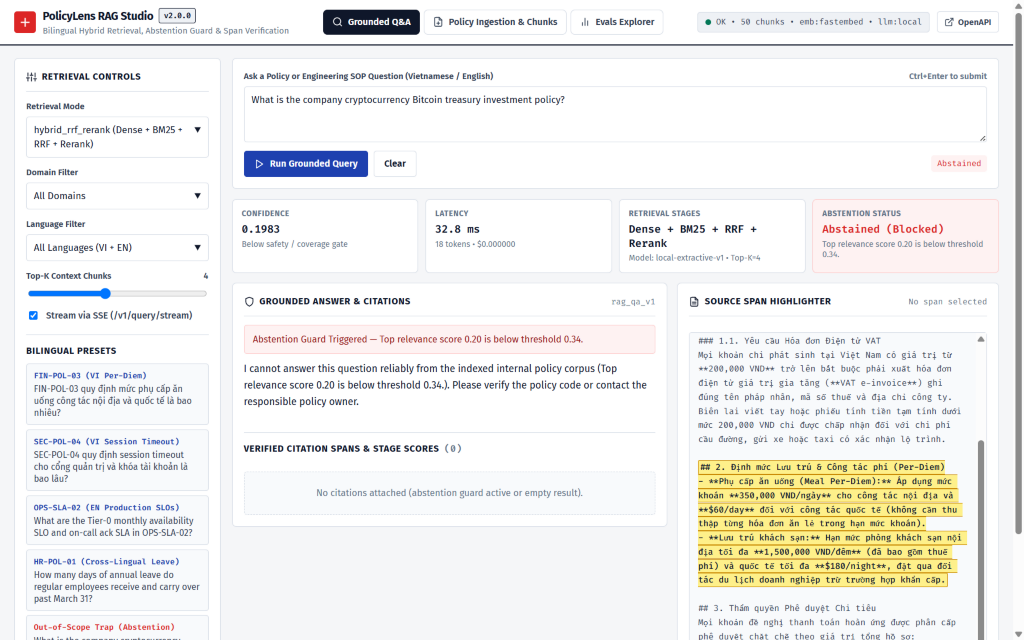
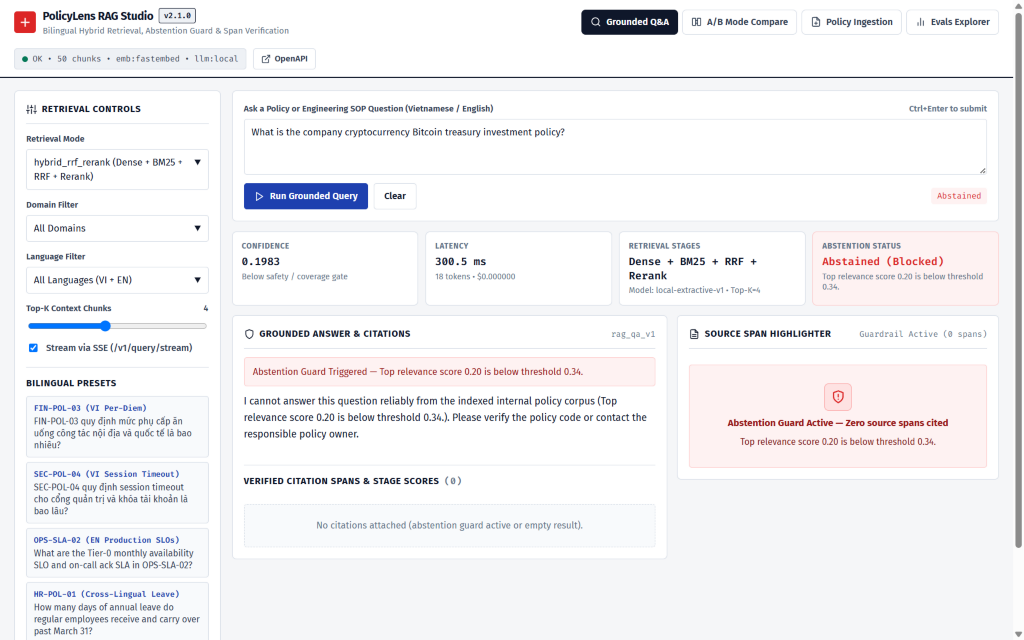
docs(ui): recapture v2.1 Studio grounded, abstention-reset, and A/B compare screenshots (#20)

diff --git a/README.md b/README.md
@@ -120,13 +120,17 @@ curl -X POST http://localhost:8301/v1/query \
 - **VS Code / IntelliJ HTTP Client:** [`docs/api-requests.http`](docs/api-requests.http)
 - **Postman Collection v2.1:** [`docs/postman_collection.json`](docs/postman_collection.json) (covers `/health`, `/v1/documents`, `/v1/documents/upload`, `/v1/documents/{doc_id}/chunks`, `/v1/evals/latest`, `/v1/query/compare`, bilingual queries, abstention traps, prompt-injection `400` check, and SSE streaming)
 
-| Grounded Q&A, Score Bars & Source Span Highlighter | Dual-Layer Abstention Guard (Out-of-Scope Block) |
+| Grounded Q&A, Score Bars & Source Span Highlighter | Dual-Layer Abstention Guard (Clean Span Reset) |
 | :---: | :---: |
 | ![RAG Studio Grounded Q&A](docs/screenshots/rag-studio-grounded.png) | ![RAG Studio Abstention Guard](docs/screenshots/rag-studio-abstention.png) |
 
-| Live Policy Upload & Character-Span Chunk Inspector | 35-Query ONNX Benchmark Explorer (`evals/`) |
+| Side-by-Side Retrieval Mode A/B Compare (`dense_only` vs `hybrid_rrf_rerank`) | Live Policy Upload & Character-Span Chunk Inspector |
 | :---: | :---: |
-| ![RAG Studio Live Ingestion](docs/screenshots/rag-studio-ingestion.png) | ![RAG Studio Evals Explorer](docs/screenshots/rag-studio-evals.png) |
+| ![RAG Studio A/B Mode Compare](docs/screenshots/rag-studio-compare.png) | ![RAG Studio Live Ingestion](docs/screenshots/rag-studio-ingestion.png) |
+
+| 35-Query ONNX Benchmark Explorer (`evals/`) |
+| :---: |
+| ![RAG Studio Evals Explorer](docs/screenshots/rag-studio-evals.png) |
 
 ---
 
